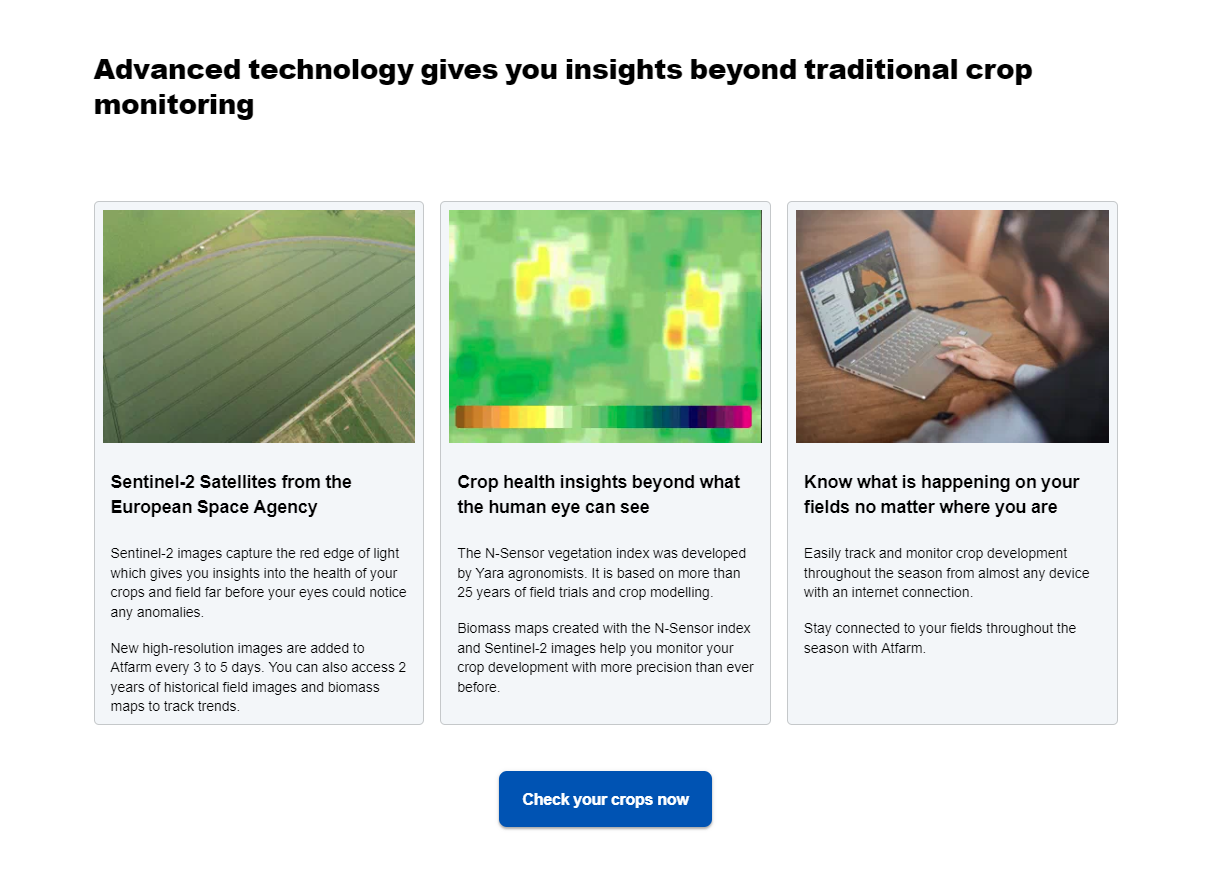
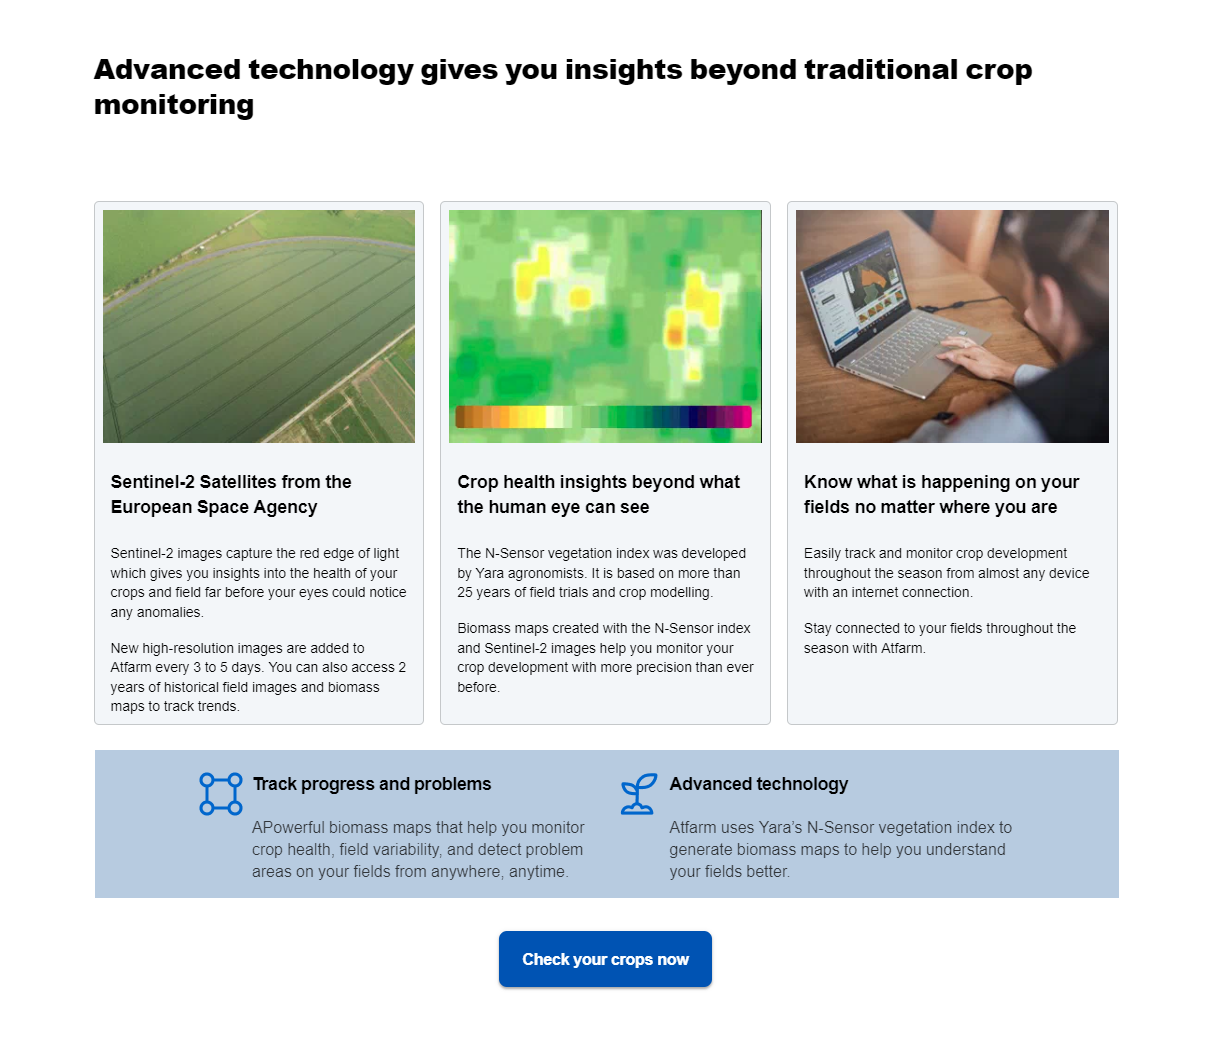
update gallery section

diff --git a/wp-content/plugins/YaraCompanion/assets/pages/sectionTemplates_ver1/003_gallery.php b/wp-content/plugins/YaraCompanion/assets/pages/sectionTemplates_ver1/003_gallery.php
@@ -57,6 +57,16 @@
                             quia quam velit temporibus nisi rem. Perferendis, accusantium incidunt.</p>
                     </div>
                 </div>
+                <div class="item_12 box box--bgColor--blue twoColMid" data-edit="image delete">
+                    <div class="icons-track">
+                        <h4 data-edit="text">Track progress and problems</h4>
+                        <p data-edit="text">APowerful biomass maps that help you monitor crop health, field variability, and detect problem areas on your fields from anywhere, anytime. </p>
+                    </div>
+                    <div class="icons-crop">
+                        <h4 data-edit="text">Advanced technology</h4>
+                        <p data-edit="text">Atfarm uses Yara’s N-Sensor vegetation index to generate biomass maps to help you understand your fields better. </p>
+                    </div>
+                </div>
                 <div class="item_12 buttonHolder">
                     <div class="button button-dark" data-edit="button delete">
                         Section Button
